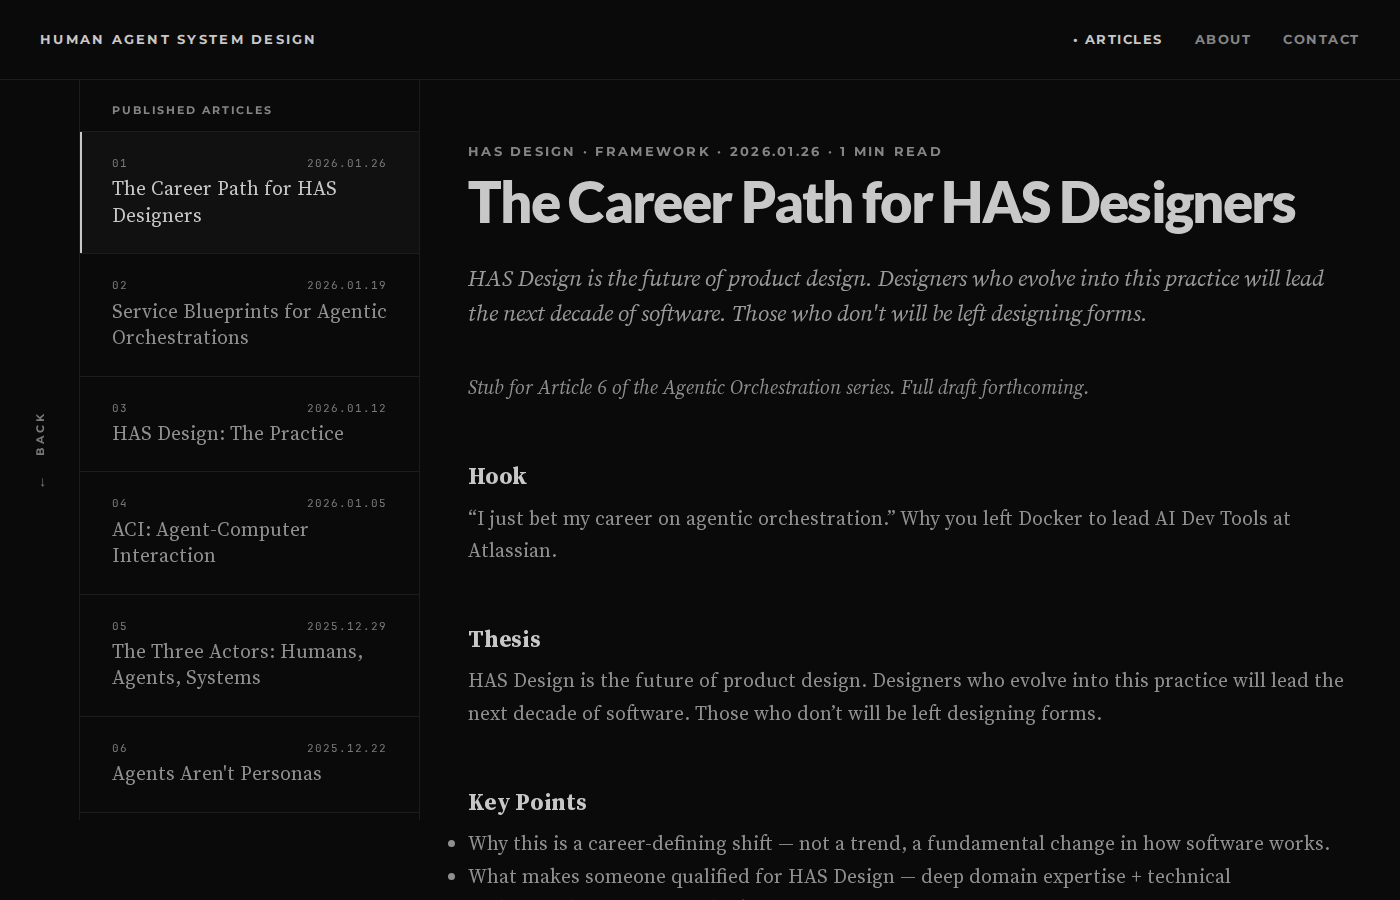
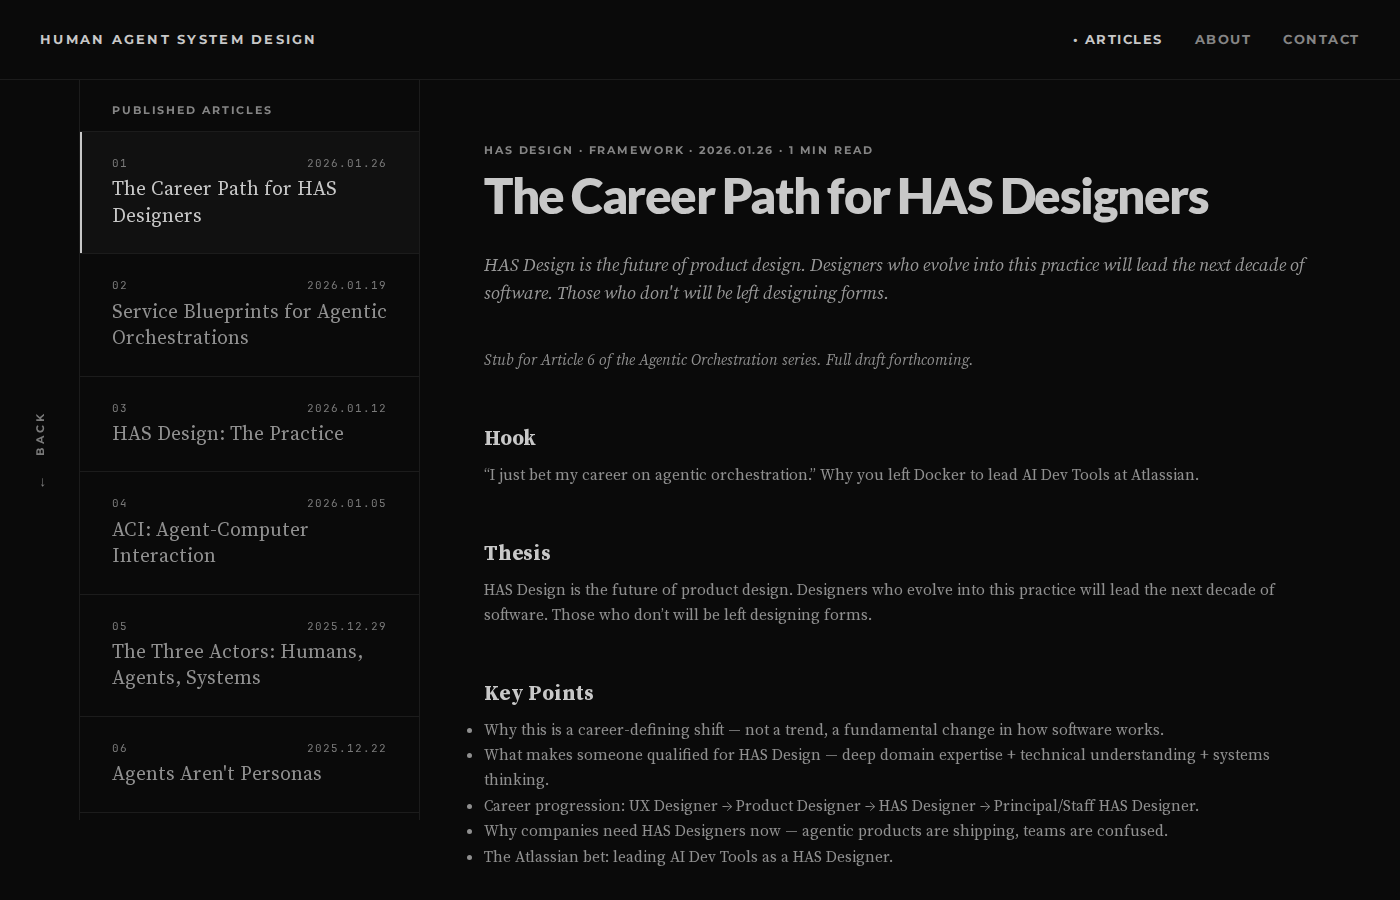
fix(reader): align ILI-685 typography to issue spec values
Updates vw values to the sizes prescribed by the Linear issue (0.75/3.5/1.3/
1.1/1.5/0.85 for eyebrow/h1/lede/body/h2/end) and bumps .article-inner
horizontal padding to 4rem per spec. At 1920 this puts body ~21px as
described in the issue verification notes.

diff --git a/src/styles/homepage.css b/src/styles/homepage.css
@@ -227,7 +227,7 @@ button { font: inherit; color: inherit; background: none; border: none; cursor: 
 
 .article-inner {
   width: 100%;
-  padding: 4rem 3rem 6rem;
+  padding: 4rem 4rem 6rem;
   opacity: 0;
   transform: translateX(16px);
   transition: opacity 0.4s ease 0.3s, transform 0.4s ease 0.3s;
@@ -239,7 +239,7 @@ button { font: inherit; color: inherit; background: none; border: none; cursor: 
 
 .art-eyebrow {
   font-family: var(--font-ui);
-  font-size: 0.9vw;
+  font-size: 0.75vw;
   letter-spacing: 0.18em;
   text-transform: uppercase;
   color: #858585;
@@ -247,7 +247,7 @@ button { font: inherit; color: inherit; background: none; border: none; cursor: 
 }
 .art-h1 {
   font-family: var(--font-display);
-  font-size: 4vw;
+  font-size: 3.5vw;
   font-weight: 700;
   line-height: 1.1;
   letter-spacing: -0.03em;
@@ -255,21 +255,21 @@ button { font: inherit; color: inherit; background: none; border: none; cursor: 
   margin-bottom: 1.75rem;
 }
 .art-lede {
-  font-size: 1.65vw;
+  font-size: 1.3vw;
   line-height: 1.55;
   font-style: italic;
   color: #9a9a9a;
   margin: 0 0 2.5rem;
 }
 .art-body {
-  font-size: 1.4vw;
+  font-size: 1.1vw;
   line-height: 1.65;
   color: #909090;
 }
 .art-body p { margin-bottom: 1.25em; }
 .art-body p:last-child { margin-bottom: 0; }
 .art-body h2 {
-  font-size: 1.65vw;
+  font-size: 1.5vw;
   font-weight: 700;
   line-height: 1.25;
   color: #c8c8c8;
@@ -283,7 +283,7 @@ button { font: inherit; color: inherit; background: none; border: none; cursor: 
   text-align: center;
   color: #7a7a7a;
   letter-spacing: 0.5em;
-  font-size: 14px;
+  font-size: 0.85vw;
 }
 
 /* ───────────── PROSE PAGES (About / Contact) ─────────────

diff --git a/tests/ili-685-screens.spec.ts b/tests/ili-685-screens.spec.ts
@@ -15,8 +15,8 @@ test.describe('ILI-685 verification — vw typography, no max-width cap', () => 
 
     const body = page.locator('.art-body').first();
     const bodyFs = await body.evaluate((el) => getComputedStyle(el).fontSize);
-    // 1.4vw of 1400 = 19.6px
-    expect(parseFloat(bodyFs)).toBeCloseTo(19.6, 0);
+    // 1.1vw of 1400 = 15.4px
+    expect(parseFloat(bodyFs)).toBeCloseTo(15.4, 0);
 
     const inner = page.locator('.article-inner');
     const maxW = await inner.evaluate((el) => getComputedStyle(el).maxWidth);
@@ -32,8 +32,8 @@ test.describe('ILI-685 verification — vw typography, no max-width cap', () => 
 
     const body = page.locator('.art-body').first();
     const bodyFs = await body.evaluate((el) => getComputedStyle(el).fontSize);
-    // 1.4vw of 1920 = 26.88px
-    expect(parseFloat(bodyFs)).toBeCloseTo(26.88, 0);
+    // 1.1vw of 1920 = 21.12px
+    expect(parseFloat(bodyFs)).toBeCloseTo(21.12, 0);
   });
 
   test('2560×1600 — reader open', async ({ page }) => {
@@ -45,8 +45,8 @@ test.describe('ILI-685 verification — vw typography, no max-width cap', () => 
 
     const body = page.locator('.art-body').first();
     const bodyFs = await body.evaluate((el) => getComputedStyle(el).fontSize);
-    // 1.4vw of 2560 = 35.84px
-    expect(parseFloat(bodyFs)).toBeCloseTo(35.84, 0);
+    // 1.1vw of 2560 = 28.16px
+    expect(parseFloat(bodyFs)).toBeCloseTo(28.16, 0);
   });
 
   test('400×900 — mobile reader preserved', async ({ page }) => {
